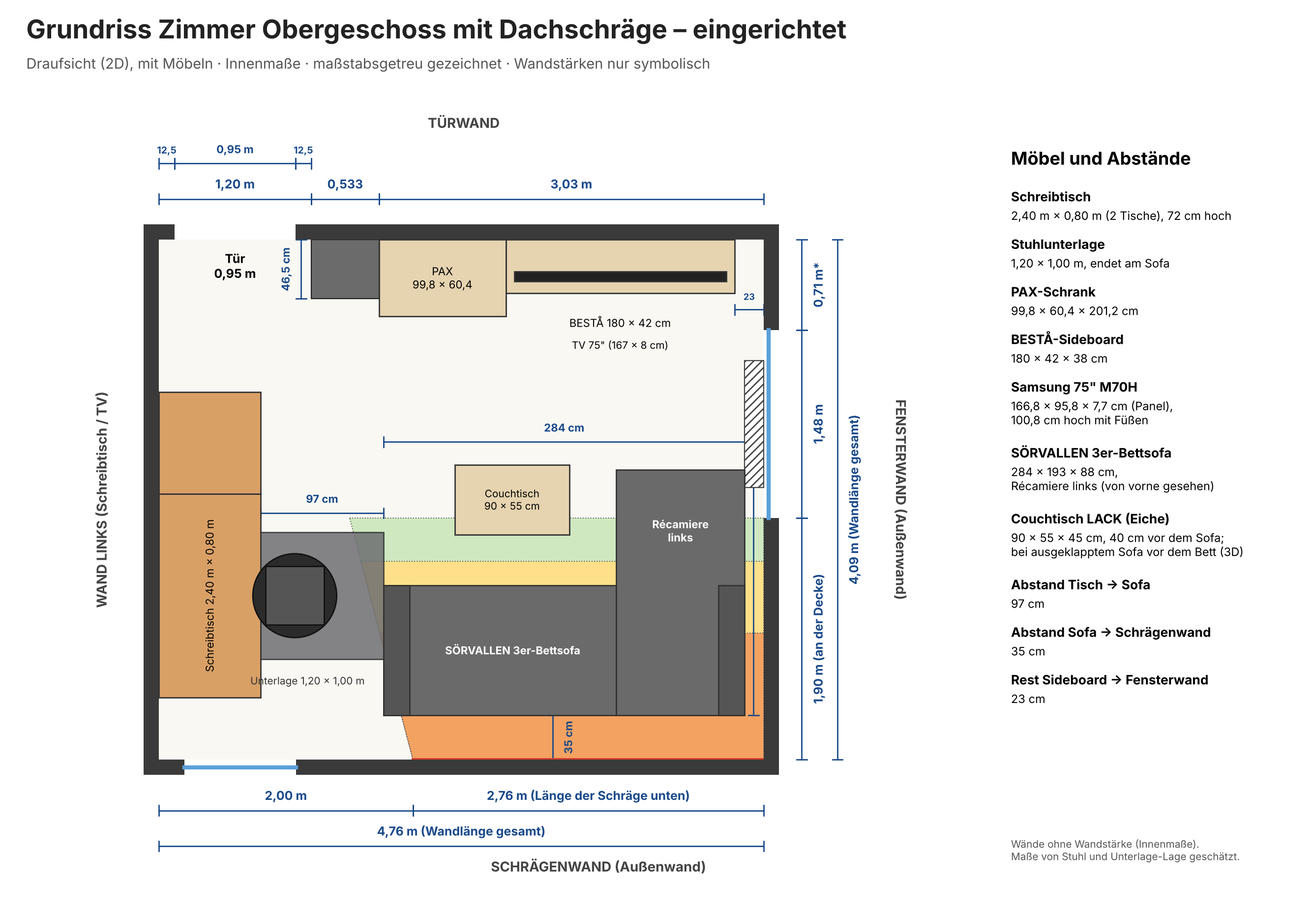
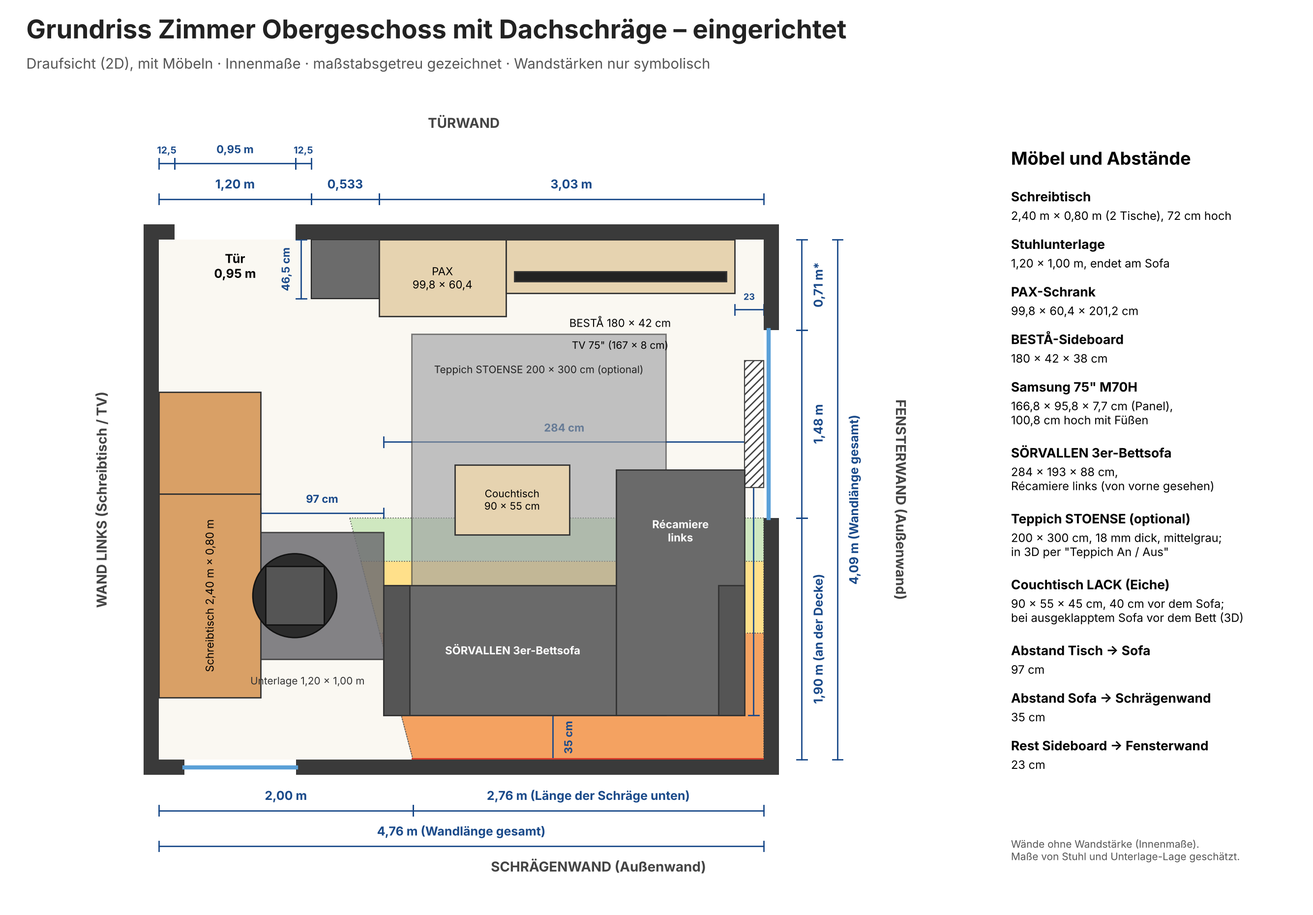
Teppich STOENSE 200x300 (mittelgrau) mit Knopf Teppich An/Aus; Grundriss und Einkaufsliste ergänzt
Claude-Session: https://claude.ai/code/session_01Hf3Bkowp5NFKLbRns8Nosg

Changed region(s): [[0.3109, 0.343, 0.5285, 0.6548], [0.7772, 0.5613, 0.9326, 0.7796], [0.7772, 0.8108, 0.9326, 0.8419]]

diff --git a/eingerichtet_mobil.html b/eingerichtet_mobil.html
@@ -59,12 +59,12 @@ a.home:hover,a.home:focus-visible{border-color:var(--accent);outline:none}
 <button id="v3">Schräge im Profil</button>
 <button id="v4">Von der Tür</button>
 <button id="tz">Kopfhöhen-Zonen</button>
-<button id="bed">Sofa ausgeklappt</button>
+<button id="bed">Sofa ausgeklappt</button><button id="rug">Teppich An / Aus</button>
 </div>
 <div class="bar" id="cats"><span class="lab">Maße zeigen für:</span></div>
 <div id="stage"><canvas id="c"></canvas>
 <div id="legend"><div><i style="background:#f4a261"></i>unter 1,50 m</div><div><i style="background:#ffe08a"></i>1,50 – 2,00 m</div><div><i style="background:#cfe8c0"></i>2,00 – 2,30 m</div></div></div>
-<footer><details><summary>Hinweise</summary>* geschätzt: Raumhöhe 2,30 m, Aufteilung des Schreibtischs (1,60 m + 0,80 m), Form der Tischbeine, Sideboard steht auf dem Boden (nicht aufgehängt), Breite des Fernseher-Rückgehäuses (Fernseher 75" steht auf seinen Standfüßen (5 cm), Gesamthöhe 138,8 cm, Lage des Panels auf den Füßen), Maße von Stuhl und Position der Unterlage, Aufbau des Sofas (Récamiere-Breite ≈ 1,02 m, Polster vereinfacht; bei ausgeklapptem Sofa Lage und Höhe der Schlaffläche), Couchtisch (Plattendicke 5 cm, Beinquerschnitt 5 cm, Höhe der Ablage; Standort vor dem Sofa bzw. vor dem ausgeklappten Sofa), Fensterhöhen, Verlauf der Diagonale an der Schräge. Wände ohne Wandstärke (Innenmaße). Von außen sind Wände und Decke durchsichtig (Schnittmodell).</details></footer>
+<footer><details><summary>Hinweise</summary>* geschätzt: Raumhöhe 2,30 m, Aufteilung des Schreibtischs (1,60 m + 0,80 m), Form der Tischbeine, Sideboard steht auf dem Boden (nicht aufgehängt), Breite des Fernseher-Rückgehäuses (Fernseher 75" steht auf seinen Standfüßen (5 cm), Gesamthöhe 138,8 cm, Lage des Panels auf den Füßen), Maße von Stuhl und Position der Unterlage, Aufbau des Sofas (Récamiere-Breite ≈ 1,02 m, Polster vereinfacht; bei ausgeklapptem Sofa Lage und Höhe der Schlaffläche), Teppich (Lage und Größe 200 × 300 cm, Position im Raum), Couchtisch (Plattendicke 5 cm, Beinquerschnitt 5 cm, Höhe der Ablage; Standort vor dem Sofa bzw. vor dem ausgeklappten Sofa), Fensterhöhen, Verlauf der Diagonale an der Schräge. Wände ohne Wandstärke (Innenmaße). Von außen sind Wände und Decke durchsichtig (Schnittmodell).</details></footer>
 <script src="three.min.js"></script><script>window.THREE||document.write('<script src="https://cdnjs.cloudflare.com/ajax/libs/three.js/r128/three.min.js"><\/script>')</script>
 <script>
 (function(){
@@ -337,6 +337,12 @@ cat='ctb';lackTable(CTB);
 var ctB=room.children.slice(ctS).filter(function(o){return o.type!=='Group';});
 ctB.forEach(function(o){o.visible=false;});
 ctDims('ctb',function(hx,vy,vz){hx(CTB[1]-0.10,CTB[0],CTB[2]);vy(2.65,CTB[1],CTB[3]);vy(2.65,CTB[3],BYF);vy(3.85,SBD,CTB[1]);vz(CTB[2]+0.06,(CTB[1]+CTB[3])/2,0,0.45);});
+// Teppich IKEA STOENSE Kurzflor, mittelgrau, 200 x 300 cm, Gesamtdicke 18 mm (Maße laut IKEA). Lage: hinten am Sofa-Kopfteil (35 cm vor der Schrägenwand), unter Sofa und Couchtisch. Ein/Aus per Knopf.
+var RG=[1.99,0.74,3.99,3.74],rugOn=true;
+var rugS=room.children.length;
+cat='teppich';box(RG[0],RG[1],0,RG[2],RG[3],0.018,0x8e9093);
+var rugObjs=room.children.slice(rugS).filter(function(o){return o.type!=='Group';});
+ctDims('teppich',function(hx,vy){hx(RG[1]-0.10,RG[0],RG[2]);vy(1.70,RG[1],RG[3]);vy(3.00,SBD,RG[1]);});
 cat='stuhl';
 // Stuhlunterlage 100 x 120 cm + Bürostuhl (Maße geschätzt: Sitz 50 x 50, Gesamthöhe 98, Fußkreuz Ø 66)
 var MX0=0.57,MX1=1.77,MY0=2.30,MY1=3.30,CCX=1.07,CCY=2.80;   // mittig unter dem 1,60-m-Tischteil (y 2,00-3,60)   // Unterlage 1,20 m (Tisch -> Sofa) x 1,00 m (längs zum Tisch), endet am Sofa (1,20 m) -> ragt 23 cm unter die Tischplatte
@@ -473,7 +479,7 @@ var LC={'Schreibtisch 2,40 m':'tisch','Höhe 72 cm':'tisch','Tiefe 80 cm':'tisch
  'Schrank 99,8 × 60,4 × 201,2 cm':'schrank','201,2 cm':'schrank','99,8 cm':'schrank',
  'Sideboard 180 × 42 × 38 cm':'sideboard','38 cm':'sideboard','180 cm':'sideboard','Rest bis Fensterwand ≈ 0,23 m':'sideboard',
  'Fernseher 75" · Panel 166,8 × 95,8 × 7,7 cm':'tv','Bilddiagonale ≈ 189 cm (75 Zoll)':'tv','100,8 cm (mit Füßen)':'tv','138,8 cm gesamt':'tv',
- 'Sofa SÖRVALLEN 284 × 193 × 88 cm':'sofa','284 cm':'sofa','35 cm Abstand zur Schrägenwand':'sofa','Tiefe 102 cm':'sofa','193 cm':'sofa','Decke 93 cm: 5 cm Luft über Rücken (88 cm)':'sofa','Schlaffläche 239 × 147 cm':'bett','239 cm':'bett','147 cm':'bett','Bettkante bis Sideboard 1,39 m':'bett','Couchtisch LACK 90 × 55 × 45 cm':'ctn','Breite 90 cm':'ctn','Tiefe 55 cm':'ctn','bis Sofa 40 cm':'ctn','bis Récamiere 36 cm':'ctn','bis Sideboard 1,35 m':'ctn','Höhe 45 cm':'ctn','Couchtisch LACK 90 × 55 × 45 cm (vor dem Bett)':'ctb','Breite 90 cm (vor dem Bett)':'ctb','Tiefe 55 cm (vor dem Bett)':'ctb','bis Bettkante 20 cm':'ctb','bis Sideboard 64 cm':'ctb','Tischhöhe 45 cm':'ctb',
+ 'Sofa SÖRVALLEN 284 × 193 × 88 cm':'sofa','284 cm':'sofa','35 cm Abstand zur Schrägenwand':'sofa','Tiefe 102 cm':'sofa','193 cm':'sofa','Decke 93 cm: 5 cm Luft über Rücken (88 cm)':'sofa','Schlaffläche 239 × 147 cm':'bett','239 cm':'bett','147 cm':'bett','Bettkante bis Sideboard 1,39 m':'bett','Teppich STOENSE 200 × 300 cm':'teppich','Teppich 200 cm':'teppich','Teppich 300 cm':'teppich','Teppich bis Sideboard 32 cm':'teppich','Couchtisch LACK 90 × 55 × 45 cm':'ctn','Breite 90 cm':'ctn','Tiefe 55 cm':'ctn','bis Sofa 40 cm':'ctn','bis Récamiere 36 cm':'ctn','bis Sideboard 1,35 m':'ctn','Höhe 45 cm':'ctn','Couchtisch LACK 90 × 55 × 45 cm (vor dem Bett)':'ctb','Breite 90 cm (vor dem Bett)':'ctb','Tiefe 55 cm (vor dem Bett)':'ctb','bis Bettkante 20 cm':'ctb','bis Sideboard 64 cm':'ctb','Tischhöhe 45 cm':'ctb',
  'Unterlage 120 cm':'stuhl','23 cm unter Tischplatte':'stuhl','Unterlage 100 cm':'stuhl','Unterlage endet am Sofa':'stuhl','Bürostuhl (geschätzt)':'stuhl',
  'Tisch bis Sofa 97 cm':'abstand','Stuhl–Sofa 42 cm':'abstand'};
 var labels=[
@@ -490,6 +496,7 @@ var labels=[
  ['Decke 93 cm: 5 cm Luft über Rücken (88 cm)',SX0+SWD/2,D-SGAP,0.95],
  ['Schlaffläche 239 × 147 cm',3.2,(BYF+BYR)/2,0.9],['239 cm',(BXA+BXB)/2,BYF-0.15,0.02],['147 cm',SX0-0.12,(BYF+BYR)/2,0.02],['Bettkante bis Sideboard 1,39 m',4.25,(SBD+BYF)/2,0.02],
  ['Couchtisch LACK 90 × 55 × 45 cm',(CTN[0]+CTN[2])/2,(CTN[1]+CTN[3])/2,0.62],['Breite 90 cm',(CTN[0]+CTN[2])/2,CTN[1]-0.10,0.02],['Tiefe 55 cm',2.23,(CTN[1]+CTN[3])/2,0.02],['bis Sofa 40 cm',2.23,(CTN[3]+2.72)/2,0.02],['bis Récamiere 36 cm',(CTN[2]+3.59)/2,2.05,0.02],['bis Sideboard 1,35 m',2.90,(SBD+CTN[1])/2,0.02],['Höhe 45 cm',CTN[2]+0.06,2.045,0.22],['Couchtisch LACK 90 × 55 × 45 cm (vor dem Bett)',(CTB[0]+CTB[2])/2,(CTB[1]+CTB[3])/2,0.62],['Breite 90 cm (vor dem Bett)',(CTB[0]+CTB[2])/2,CTB[1]-0.10,0.02],['Tiefe 55 cm (vor dem Bett)',2.65,(CTB[1]+CTB[3])/2,0.02],['bis Bettkante 20 cm',2.65,(CTB[3]+BYF)/2,0.02],['bis Sideboard 64 cm',3.85,(SBD+CTB[1])/2,0.02],['Tischhöhe 45 cm',CTB[2]+0.06,(CTB[1]+CTB[3])/2,0.22],
+ ['Teppich STOENSE 200 × 300 cm',(RG[0]+RG[2])/2,0.95,0.05],['Teppich 200 cm',(RG[0]+RG[2])/2,RG[1]-0.10,0.02],['Teppich 300 cm',1.70,(RG[1]+RG[3])/2,0.02],['Teppich bis Sideboard 32 cm',3.00,(SBD+RG[1])/2,0.02],
  ['Tisch bis Sofa 97 cm',(0.80+SX0)/2,2.10,0.03],['Unterlage 120 cm',(MX0+MX1)/2,MY0-0.04,0.03],['23 cm unter Tischplatte',MX0+0.07,MY0-0.12,0.03],['Unterlage 100 cm',MX1,(MY0+MY1)/2,0.03],
  ['Stuhl–Sofa 42 cm',(CCX+0.275+SX0)/2,2.95,0.03],['Unterlage endet am Sofa',MX1,MY0-0.12,0.03],['Bürostuhl (geschätzt)',CCX,CCY,1.12],['99,8 cm',PX0+PW/2,0.75,0.02],['180 cm',SB0+SBW/2,0.75,0.02],['Rest bis Fensterwand ≈ 0,23 m',SB0+SBW+0.115,0.75,0.02]
 ].map(function(l){var d=document.createElement('div');d.className='lbl';d.textContent=l[0];stage.appendChild(d);return {el:d,p:P(l[1],l[2],l[3]),cat:LC[l[0]]||'raum'};});
@@ -529,7 +536,7 @@ canvas.addEventListener('pointermove',function(e){
 canvas.addEventListener('wheel',function(e){e.preventDefault();dist=Math.max(3,Math.min(25,dist*(1+e.deltaY*0.001)));},{passive:false});
 ['v1','v2','v3','v4'].forEach(function(k){document.getElementById(k).onclick=function(){setView(k);};});
 document.getElementById('tz').onclick=function(){zones.visible=!zones.visible;this.classList.toggle('on',zones.visible);document.getElementById('legend').style.display=zones.visible?'block':'none';};
-var CATS=[['raum','Raum'],['tisch','Schreibtisch'],['schrank','Schrank'],['sideboard','Sideboard'],['tv','Fernseher'],['sofa','Sofa'],['bett','Sofa ausgeklappt'],['couchtisch','Couchtisch'],['stuhl','Stuhl & Unterlage'],['abstand','Abstände Tisch–Sofa']];
+var CATS=[['raum','Raum'],['tisch','Schreibtisch'],['schrank','Schrank'],['sideboard','Sideboard'],['tv','Fernseher'],['sofa','Sofa'],['bett','Sofa ausgeklappt'],['couchtisch','Couchtisch'],['teppich','Teppich'],['stuhl','Stuhl & Unterlage'],['abstand','Abstände Tisch–Sofa']];
 var LINK={sofa:['abstand'],stuhl:['abstand']};
 var pinned={},hoverCat=null,hoverOn=true,catsEl=document.getElementById('cats');
 function sync(){[].forEach.call(catsEl.querySelectorAll('button[data-k]'),function(b){b.classList.toggle('on',!!pinned[b.dataset.k]);});}
@@ -543,8 +550,12 @@ hBtn.Ein.classList.add('on');
 var bedBtn=document.getElementById('bed');
 function setBed(on){bedOn=on;bedObjs.forEach(function(o){o.visible=on;});backObjs.forEach(function(o){o.visible=!on;});ctN.forEach(function(o){o.visible=!on;});ctB.forEach(function(o){o.visible=on;});pinned.bett=on;pinned.couchtisch=on;sync();bedBtn.classList.toggle('on',on);}
 bedBtn.onclick=function(){setBed(!bedOn);};
+var rugBtn=document.getElementById('rug');
+function setRug(on){rugOn=on;rugObjs.forEach(function(o){o.visible=on;});rugBtn.classList.toggle('on',on);}
+rugBtn.onclick=function(){setRug(!rugOn);};setRug(true);
 
-function isVis(k){if(k==='bett'&&!bedOn)return false;var c=k;if(k==='ctn'||k==='ctb'){if((k==='ctb')!==bedOn)return false;c='couchtisch';}var hc=(hoverCat==='ctn'||hoverCat==='ctb')?'couchtisch':hoverCat;if(pinned[c])return true;if(hc){if(hc===c)return true;var L=LINK[hc];if(L&&L.indexOf(c)>=0)return true;}return false;}
+
+function isVis(k){if(k==='bett'&&!bedOn)return false;if(k==='teppich'&&!rugOn)return false;var c=k;if(k==='ctn'||k==='ctb'){if((k==='ctb')!==bedOn)return false;c='couchtisch';}var hc=(hoverCat==='ctn'||hoverCat==='ctb')?'couchtisch':hoverCat;if(pinned[c])return true;if(hc){if(hc===c)return true;var L=LINK[hc];if(L&&L.indexOf(c)>=0)return true;}return false;}
 var ray=new THREE.Raycaster(),mv=new THREE.Vector2(),downXY=null;
 function pick(e){var r=canvas.getBoundingClientRect();mv.set(((e.clientX-r.left)/r.width)*2-1,-((e.clientY-r.top)/r.height)*2+1);ray.setFromCamera(mv,cam);
   var hits=ray.intersectObjects(room.children,true);
@@ -558,7 +569,7 @@ canvas.addEventListener('pointerup',function(e){
   downXY=null;if(e.pointerType==='touch')hoverCat=null;});
 matchMedia('(prefers-color-scheme: dark)').addEventListener('change',function(){edgeMats.forEach(function(m){m.color.setHex(edgeColor());});});
 function loop(){
-  Object.keys(dimG).forEach(function(k){dimG[k].visible=isVis(k);});
+  Object.keys(dimG).forEach(function(k){dimG[k].visible=isVis(k);dimG[k].position.y=rugOn?0.02:0;});
   place();renderer.render(scene,cam);
   var w=stage.clientWidth,h=stage.clientHeight;
   labels.forEach(function(l){

diff --git a/interaktiv_mobil.html b/interaktiv_mobil.html
@@ -59,12 +59,12 @@ a.home:hover,a.home:focus-visible{border-color:var(--accent);outline:none}
 <button id="v3">Schräge im Profil</button>
 <button id="v4">Von der Tür</button>
 <button id="tz">Kopfhöhen-Zonen</button>
-<button id="bed">Sofa ausgeklappt</button>
+<button id="bed">Sofa ausgeklappt</button><button id="rug">Teppich An / Aus</button>
 </div>
 <div class="bar" id="cats"><span class="lab">Maße zeigen für:</span></div>
 <div id="stage"><canvas id="c"></canvas>
 <div id="legend"><div><i style="background:#f4a261"></i>unter 1,50 m</div><div><i style="background:#ffe08a"></i>1,50 – 2,00 m</div><div><i style="background:#cfe8c0"></i>2,00 – 2,30 m</div></div></div>
-<footer><details><summary>Hinweise</summary>* geschätzt: Raumhöhe 2,30 m, Aufteilung des Schreibtischs (1,60 m + 0,80 m), Form der Tischbeine, Sideboard steht auf dem Boden (nicht aufgehängt), Breite des Fernseher-Rückgehäuses (Fernseher 75" steht auf seinen Standfüßen (5 cm), Gesamthöhe 138,8 cm, Lage des Panels auf den Füßen), Maße von Stuhl und Position der Unterlage, Aufbau des Sofas (Récamiere-Breite ≈ 1,02 m, Polster vereinfacht; bei ausgeklapptem Sofa Lage und Höhe der Schlaffläche), Couchtisch (Plattendicke 5 cm, Beinquerschnitt 5 cm, Höhe der Ablage; Standort vor dem Sofa bzw. vor dem ausgeklappten Sofa), Fensterhöhen, Verlauf der Diagonale an der Schräge. Wände ohne Wandstärke (Innenmaße). Von außen sind Wände und Decke durchsichtig (Schnittmodell).</details></footer>
+<footer><details><summary>Hinweise</summary>* geschätzt: Raumhöhe 2,30 m, Aufteilung des Schreibtischs (1,60 m + 0,80 m), Form der Tischbeine, Sideboard steht auf dem Boden (nicht aufgehängt), Breite des Fernseher-Rückgehäuses (Fernseher 75" steht auf seinen Standfüßen (5 cm), Gesamthöhe 138,8 cm, Lage des Panels auf den Füßen), Maße von Stuhl und Position der Unterlage, Aufbau des Sofas (Récamiere-Breite ≈ 1,02 m, Polster vereinfacht; bei ausgeklapptem Sofa Lage und Höhe der Schlaffläche), Teppich (Lage und Größe 200 × 300 cm, Position im Raum), Couchtisch (Plattendicke 5 cm, Beinquerschnitt 5 cm, Höhe der Ablage; Standort vor dem Sofa bzw. vor dem ausgeklappten Sofa), Fensterhöhen, Verlauf der Diagonale an der Schräge. Wände ohne Wandstärke (Innenmaße). Von außen sind Wände und Decke durchsichtig (Schnittmodell).</details></footer>
 <script src="three.min.js"></script><script>window.THREE||document.write('<script src="https://cdnjs.cloudflare.com/ajax/libs/three.js/r128/three.min.js"><\/script>')</script>
 <script>
 (function(){
@@ -337,6 +337,12 @@ cat='ctb';lackTable(CTB);
 var ctB=room.children.slice(ctS).filter(function(o){return o.type!=='Group';});
 ctB.forEach(function(o){o.visible=false;});
 ctDims('ctb',function(hx,vy,vz){hx(CTB[1]-0.10,CTB[0],CTB[2]);vy(2.65,CTB[1],CTB[3]);vy(2.65,CTB[3],BYF);vy(3.85,SBD,CTB[1]);vz(CTB[2]+0.06,(CTB[1]+CTB[3])/2,0,0.45);});
+// Teppich IKEA STOENSE Kurzflor, mittelgrau, 200 x 300 cm, Gesamtdicke 18 mm (Maße laut IKEA). Lage: hinten am Sofa-Kopfteil (35 cm vor der Schrägenwand), unter Sofa und Couchtisch. Ein/Aus per Knopf.
+var RG=[1.99,0.74,3.99,3.74],rugOn=true;
+var rugS=room.children.length;
+cat='teppich';box(RG[0],RG[1],0,RG[2],RG[3],0.018,0x8e9093);
+var rugObjs=room.children.slice(rugS).filter(function(o){return o.type!=='Group';});
+ctDims('teppich',function(hx,vy){hx(RG[1]-0.10,RG[0],RG[2]);vy(1.70,RG[1],RG[3]);vy(3.00,SBD,RG[1]);});
 cat='stuhl';
 // Stuhlunterlage 100 x 120 cm + Bürostuhl (Maße geschätzt: Sitz 50 x 50, Gesamthöhe 98, Fußkreuz Ø 66)
 var MX0=0.57,MX1=1.77,MY0=2.30,MY1=3.30,CCX=1.07,CCY=2.80;   // mittig unter dem 1,60-m-Tischteil (y 2,00-3,60)   // Unterlage 1,20 m (Tisch -> Sofa) x 1,00 m (längs zum Tisch), endet am Sofa (1,20 m) -> ragt 23 cm unter die Tischplatte
@@ -473,7 +479,7 @@ var LC={'Schreibtisch 2,40 m':'tisch','Höhe 72 cm':'tisch','Tiefe 80 cm':'tisch
  'Schrank 99,8 × 60,4 × 201,2 cm':'schrank','201,2 cm':'schrank','99,8 cm':'schrank',
  'Sideboard 180 × 42 × 38 cm':'sideboard','38 cm':'sideboard','180 cm':'sideboard','Rest bis Fensterwand ≈ 0,23 m':'sideboard',
  'Fernseher 75" · Panel 166,8 × 95,8 × 7,7 cm':'tv','Bilddiagonale ≈ 189 cm (75 Zoll)':'tv','100,8 cm (mit Füßen)':'tv','138,8 cm gesamt':'tv',
- 'Sofa SÖRVALLEN 284 × 193 × 88 cm':'sofa','284 cm':'sofa','35 cm Abstand zur Schrägenwand':'sofa','Tiefe 102 cm':'sofa','193 cm':'sofa','Decke 93 cm: 5 cm Luft über Rücken (88 cm)':'sofa','Schlaffläche 239 × 147 cm':'bett','239 cm':'bett','147 cm':'bett','Bettkante bis Sideboard 1,39 m':'bett','Couchtisch LACK 90 × 55 × 45 cm':'ctn','Breite 90 cm':'ctn','Tiefe 55 cm':'ctn','bis Sofa 40 cm':'ctn','bis Récamiere 36 cm':'ctn','bis Sideboard 1,35 m':'ctn','Höhe 45 cm':'ctn','Couchtisch LACK 90 × 55 × 45 cm (vor dem Bett)':'ctb','Breite 90 cm (vor dem Bett)':'ctb','Tiefe 55 cm (vor dem Bett)':'ctb','bis Bettkante 20 cm':'ctb','bis Sideboard 64 cm':'ctb','Tischhöhe 45 cm':'ctb',
+ 'Sofa SÖRVALLEN 284 × 193 × 88 cm':'sofa','284 cm':'sofa','35 cm Abstand zur Schrägenwand':'sofa','Tiefe 102 cm':'sofa','193 cm':'sofa','Decke 93 cm: 5 cm Luft über Rücken (88 cm)':'sofa','Schlaffläche 239 × 147 cm':'bett','239 cm':'bett','147 cm':'bett','Bettkante bis Sideboard 1,39 m':'bett','Teppich STOENSE 200 × 300 cm':'teppich','Teppich 200 cm':'teppich','Teppich 300 cm':'teppich','Teppich bis Sideboard 32 cm':'teppich','Couchtisch LACK 90 × 55 × 45 cm':'ctn','Breite 90 cm':'ctn','Tiefe 55 cm':'ctn','bis Sofa 40 cm':'ctn','bis Récamiere 36 cm':'ctn','bis Sideboard 1,35 m':'ctn','Höhe 45 cm':'ctn','Couchtisch LACK 90 × 55 × 45 cm (vor dem Bett)':'ctb','Breite 90 cm (vor dem Bett)':'ctb','Tiefe 55 cm (vor dem Bett)':'ctb','bis Bettkante 20 cm':'ctb','bis Sideboard 64 cm':'ctb','Tischhöhe 45 cm':'ctb',
  'Unterlage 120 cm':'stuhl','23 cm unter Tischplatte':'stuhl','Unterlage 100 cm':'stuhl','Unterlage endet am Sofa':'stuhl','Bürostuhl (geschätzt)':'stuhl',
  'Tisch bis Sofa 97 cm':'abstand','Stuhl–Sofa 42 cm':'abstand'};
 var labels=[
@@ -490,6 +496,7 @@ var labels=[
  ['Decke 93 cm: 5 cm Luft über Rücken (88 cm)',SX0+SWD/2,D-SGAP,0.95],
  ['Schlaffläche 239 × 147 cm',3.2,(BYF+BYR)/2,0.9],['239 cm',(BXA+BXB)/2,BYF-0.15,0.02],['147 cm',SX0-0.12,(BYF+BYR)/2,0.02],['Bettkante bis Sideboard 1,39 m',4.25,(SBD+BYF)/2,0.02],
  ['Couchtisch LACK 90 × 55 × 45 cm',(CTN[0]+CTN[2])/2,(CTN[1]+CTN[3])/2,0.62],['Breite 90 cm',(CTN[0]+CTN[2])/2,CTN[1]-0.10,0.02],['Tiefe 55 cm',2.23,(CTN[1]+CTN[3])/2,0.02],['bis Sofa 40 cm',2.23,(CTN[3]+2.72)/2,0.02],['bis Récamiere 36 cm',(CTN[2]+3.59)/2,2.05,0.02],['bis Sideboard 1,35 m',2.90,(SBD+CTN[1])/2,0.02],['Höhe 45 cm',CTN[2]+0.06,2.045,0.22],['Couchtisch LACK 90 × 55 × 45 cm (vor dem Bett)',(CTB[0]+CTB[2])/2,(CTB[1]+CTB[3])/2,0.62],['Breite 90 cm (vor dem Bett)',(CTB[0]+CTB[2])/2,CTB[1]-0.10,0.02],['Tiefe 55 cm (vor dem Bett)',2.65,(CTB[1]+CTB[3])/2,0.02],['bis Bettkante 20 cm',2.65,(CTB[3]+BYF)/2,0.02],['bis Sideboard 64 cm',3.85,(SBD+CTB[1])/2,0.02],['Tischhöhe 45 cm',CTB[2]+0.06,(CTB[1]+CTB[3])/2,0.22],
+ ['Teppich STOENSE 200 × 300 cm',(RG[0]+RG[2])/2,0.95,0.05],['Teppich 200 cm',(RG[0]+RG[2])/2,RG[1]-0.10,0.02],['Teppich 300 cm',1.70,(RG[1]+RG[3])/2,0.02],['Teppich bis Sideboard 32 cm',3.00,(SBD+RG[1])/2,0.02],
  ['Tisch bis Sofa 97 cm',(0.80+SX0)/2,2.10,0.03],['Unterlage 120 cm',(MX0+MX1)/2,MY0-0.04,0.03],['23 cm unter Tischplatte',MX0+0.07,MY0-0.12,0.03],['Unterlage 100 cm',MX1,(MY0+MY1)/2,0.03],
  ['Stuhl–Sofa 42 cm',(CCX+0.275+SX0)/2,2.95,0.03],['Unterlage endet am Sofa',MX1,MY0-0.12,0.03],['Bürostuhl (geschätzt)',CCX,CCY,1.12],['99,8 cm',PX0+PW/2,0.75,0.02],['180 cm',SB0+SBW/2,0.75,0.02],['Rest bis Fensterwand ≈ 0,23 m',SB0+SBW+0.115,0.75,0.02]
 ].map(function(l){var d=document.createElement('div');d.className='lbl';d.textContent=l[0];stage.appendChild(d);return {el:d,p:P(l[1],l[2],l[3]),cat:LC[l[0]]||'raum'};});
@@ -529,7 +536,7 @@ canvas.addEventListener('pointermove',function(e){
 canvas.addEventListener('wheel',function(e){e.preventDefault();dist=Math.max(3,Math.min(25,dist*(1+e.deltaY*0.001)));},{passive:false});
 ['v1','v2','v3','v4'].forEach(function(k){document.getElementById(k).onclick=function(){setView(k);};});
 document.getElementById('tz').onclick=function(){zones.visible=!zones.visible;this.classList.toggle('on',zones.visible);document.getElementById('legend').style.display=zones.visible?'block':'none';};
-var CATS=[['raum','Raum'],['tisch','Schreibtisch'],['schrank','Schrank'],['sideboard','Sideboard'],['tv','Fernseher'],['sofa','Sofa'],['bett','Sofa ausgeklappt'],['couchtisch','Couchtisch'],['stuhl','Stuhl & Unterlage'],['abstand','Abstände Tisch–Sofa']];
+var CATS=[['raum','Raum'],['tisch','Schreibtisch'],['schrank','Schrank'],['sideboard','Sideboard'],['tv','Fernseher'],['sofa','Sofa'],['bett','Sofa ausgeklappt'],['couchtisch','Couchtisch'],['teppich','Teppich'],['stuhl','Stuhl & Unterlage'],['abstand','Abstände Tisch–Sofa']];
 var LINK={sofa:['abstand'],stuhl:['abstand']};
 var pinned={},hoverCat=null,hoverOn=true,catsEl=document.getElementById('cats');
 function sync(){[].forEach.call(catsEl.querySelectorAll('button[data-k]'),function(b){b.classList.toggle('on',!!pinned[b.dataset.k]);});}
@@ -543,8 +550,12 @@ hBtn.Ein.classList.add('on');
 var bedBtn=document.getElementById('bed');
 function setBed(on){bedOn=on;bedObjs.forEach(function(o){o.visible=on;});backObjs.forEach(function(o){o.visible=!on;});ctN.forEach(function(o){o.visible=!on;});ctB.forEach(function(o){o.visible=on;});pinned.bett=on;pinned.couchtisch=on;sync();bedBtn.classList.toggle('on',on);}
 bedBtn.onclick=function(){setBed(!bedOn);};
+var rugBtn=document.getElementById('rug');
+function setRug(on){rugOn=on;rugObjs.forEach(function(o){o.visible=on;});rugBtn.classList.toggle('on',on);}
+rugBtn.onclick=function(){setRug(!rugOn);};setRug(true);
 
-function isVis(k){if(k==='bett'&&!bedOn)return false;var c=k;if(k==='ctn'||k==='ctb'){if((k==='ctb')!==bedOn)return false;c='couchtisch';}var hc=(hoverCat==='ctn'||hoverCat==='ctb')?'couchtisch':hoverCat;if(pinned[c])return true;if(hc){if(hc===c)return true;var L=LINK[hc];if(L&&L.indexOf(c)>=0)return true;}return false;}
+
+function isVis(k){if(k==='bett'&&!bedOn)return false;if(k==='teppich'&&!rugOn)return false;var c=k;if(k==='ctn'||k==='ctb'){if((k==='ctb')!==bedOn)return false;c='couchtisch';}var hc=(hoverCat==='ctn'||hoverCat==='ctb')?'couchtisch':hoverCat;if(pinned[c])return true;if(hc){if(hc===c)return true;var L=LINK[hc];if(L&&L.indexOf(c)>=0)return true;}return false;}
 var ray=new THREE.Raycaster(),mv=new THREE.Vector2(),downXY=null;
 function pick(e){var r=canvas.getBoundingClientRect();mv.set(((e.clientX-r.left)/r.width)*2-1,-((e.clientY-r.top)/r.height)*2+1);ray.setFromCamera(mv,cam);
   var hits=ray.intersectObjects(room.children,true);
@@ -558,7 +569,7 @@ canvas.addEventListener('pointerup',function(e){
   downXY=null;if(e.pointerType==='touch')hoverCat=null;});
 matchMedia('(prefers-color-scheme: dark)').addEventListener('change',function(){edgeMats.forEach(function(m){m.color.setHex(edgeColor());});});
 function loop(){
-  Object.keys(dimG).forEach(function(k){dimG[k].visible=isVis(k);});
+  Object.keys(dimG).forEach(function(k){dimG[k].visible=isVis(k);dimG[k].position.y=rugOn?0.02:0;});
   place();renderer.render(scene,cam);
   var w=stage.clientWidth,h=stage.clientHeight;
   labels.forEach(function(l){

diff --git a/eingerichtet.html b/eingerichtet.html
@@ -42,12 +42,12 @@ a.home:hover,a.home:focus-visible{border-color:var(--accent);outline:none}
 <button id="v3">Schräge im Profil</button>
 <button id="v4">Von der Tür</button>
 <button id="tz">Kopfhöhen-Zonen</button>
-<button id="bed">Sofa ausgeklappt</button>
+<button id="bed">Sofa ausgeklappt</button><button id="rug">Teppich An / Aus</button>
 </div>
 <div class="bar" id="cats"><span class="lab">Maße zeigen für:</span></div>
 <div id="stage"><canvas id="c"></canvas>
 <div id="legend"><div><i style="background:#f4a261"></i>unter 1,50 m</div><div><i style="background:#ffe08a"></i>1,50 – 2,00 m</div><div><i style="background:#cfe8c0"></i>2,00 – 2,30 m</div></div></div>
-<footer>* geschätzt: Raumhöhe 2,30 m, Aufteilung des Schreibtischs (1,60 m + 0,80 m), Form der Tischbeine, Sideboard steht auf dem Boden (nicht aufgehängt), Breite des Fernseher-Rückgehäuses (Fernseher 75" steht auf seinen Standfüßen (5 cm), Gesamthöhe 138,8 cm, Lage des Panels auf den Füßen), Maße von Stuhl und Position der Unterlage, Aufbau des Sofas (Récamiere-Breite ≈ 1,02 m, Polster vereinfacht; bei ausgeklapptem Sofa Lage und Höhe der Schlaffläche), Couchtisch (Plattendicke 5 cm, Beinquerschnitt 5 cm, Höhe der Ablage; Standort vor dem Sofa bzw. vor dem ausgeklappten Sofa), Fensterhöhen, Verlauf der Diagonale an der Schräge. Wände ohne Wandstärke (Innenmaße). Von außen sind Wände und Decke durchsichtig (Schnittmodell).</footer>
+<footer>* geschätzt: Raumhöhe 2,30 m, Aufteilung des Schreibtischs (1,60 m + 0,80 m), Form der Tischbeine, Sideboard steht auf dem Boden (nicht aufgehängt), Breite des Fernseher-Rückgehäuses (Fernseher 75" steht auf seinen Standfüßen (5 cm), Gesamthöhe 138,8 cm, Lage des Panels auf den Füßen), Maße von Stuhl und Position der Unterlage, Aufbau des Sofas (Récamiere-Breite ≈ 1,02 m, Polster vereinfacht; bei ausgeklapptem Sofa Lage und Höhe der Schlaffläche), Teppich (Lage und Größe 200 × 300 cm, Position im Raum), Couchtisch (Plattendicke 5 cm, Beinquerschnitt 5 cm, Höhe der Ablage; Standort vor dem Sofa bzw. vor dem ausgeklappten Sofa), Fensterhöhen, Verlauf der Diagonale an der Schräge. Wände ohne Wandstärke (Innenmaße). Von außen sind Wände und Decke durchsichtig (Schnittmodell).</footer>
 <script src="three.min.js"></script><script>window.THREE||document.write('<script src="https://cdnjs.cloudflare.com/ajax/libs/three.js/r128/three.min.js"><\/script>')</script>
 <script>
 (function(){
@@ -320,6 +320,12 @@ cat='ctb';lackTable(CTB);
 var ctB=room.children.slice(ctS).filter(function(o){return o.type!=='Group';});
 ctB.forEach(function(o){o.visible=false;});
 ctDims('ctb',function(hx,vy,vz){hx(CTB[1]-0.10,CTB[0],CTB[2]);vy(2.65,CTB[1],CTB[3]);vy(2.65,CTB[3],BYF);vy(3.85,SBD,CTB[1]);vz(CTB[2]+0.06,(CTB[1]+CTB[3])/2,0,0.45);});
+// Teppich IKEA STOENSE Kurzflor, mittelgrau, 200 x 300 cm, Gesamtdicke 18 mm (Maße laut IKEA). Lage: hinten am Sofa-Kopfteil (35 cm vor der Schrägenwand), unter Sofa und Couchtisch. Ein/Aus per Knopf.
+var RG=[1.99,0.74,3.99,3.74],rugOn=true;
+var rugS=room.children.length;
+cat='teppich';box(RG[0],RG[1],0,RG[2],RG[3],0.018,0x8e9093);
+var rugObjs=room.children.slice(rugS).filter(function(o){return o.type!=='Group';});
+ctDims('teppich',function(hx,vy){hx(RG[1]-0.10,RG[0],RG[2]);vy(1.70,RG[1],RG[3]);vy(3.00,SBD,RG[1]);});
 cat='stuhl';
 // Stuhlunterlage 100 x 120 cm + Bürostuhl (Maße geschätzt: Sitz 50 x 50, Gesamthöhe 98, Fußkreuz Ø 66)
 var MX0=0.57,MX1=1.77,MY0=2.30,MY1=3.30,CCX=1.07,CCY=2.80;   // mittig unter dem 1,60-m-Tischteil (y 2,00-3,60)   // Unterlage 1,20 m (Tisch -> Sofa) x 1,00 m (längs zum Tisch), endet am Sofa (1,20 m) -> ragt 23 cm unter die Tischplatte
@@ -456,7 +462,7 @@ var LC={'Schreibtisch 2,40 m':'tisch','Höhe 72 cm':'tisch','Tiefe 80 cm':'tisch
  'Schrank 99,8 × 60,4 × 201,2 cm':'schrank','201,2 cm':'schrank','99,8 cm':'schrank',
  'Sideboard 180 × 42 × 38 cm':'sideboard','38 cm':'sideboard','180 cm':'sideboard','Rest bis Fensterwand ≈ 0,23 m':'sideboard',
  'Fernseher 75" · Panel 166,8 × 95,8 × 7,7 cm':'tv','Bilddiagonale ≈ 189 cm (75 Zoll)':'tv','100,8 cm (mit Füßen)':'tv','138,8 cm gesamt':'tv',
- 'Sofa SÖRVALLEN 284 × 193 × 88 cm':'sofa','284 cm':'sofa','35 cm Abstand zur Schrägenwand':'sofa','Tiefe 102 cm':'sofa','193 cm':'sofa','Decke 93 cm: 5 cm Luft über Rücken (88 cm)':'sofa','Schlaffläche 239 × 147 cm':'bett','239 cm':'bett','147 cm':'bett','Bettkante bis Sideboard 1,39 m':'bett','Couchtisch LACK 90 × 55 × 45 cm':'ctn','Breite 90 cm':'ctn','Tiefe 55 cm':'ctn','bis Sofa 40 cm':'ctn','bis Récamiere 36 cm':'ctn','bis Sideboard 1,35 m':'ctn','Höhe 45 cm':'ctn','Couchtisch LACK 90 × 55 × 45 cm (vor dem Bett)':'ctb','Breite 90 cm (vor dem Bett)':'ctb','Tiefe 55 cm (vor dem Bett)':'ctb','bis Bettkante 20 cm':'ctb','bis Sideboard 64 cm':'ctb','Tischhöhe 45 cm':'ctb',
+ 'Sofa SÖRVALLEN 284 × 193 × 88 cm':'sofa','284 cm':'sofa','35 cm Abstand zur Schrägenwand':'sofa','Tiefe 102 cm':'sofa','193 cm':'sofa','Decke 93 cm: 5 cm Luft über Rücken (88 cm)':'sofa','Schlaffläche 239 × 147 cm':'bett','239 cm':'bett','147 cm':'bett','Bettkante bis Sideboard 1,39 m':'bett','Teppich STOENSE 200 × 300 cm':'teppich','Teppich 200 cm':'teppich','Teppich 300 cm':'teppich','Teppich bis Sideboard 32 cm':'teppich','Couchtisch LACK 90 × 55 × 45 cm':'ctn','Breite 90 cm':'ctn','Tiefe 55 cm':'ctn','bis Sofa 40 cm':'ctn','bis Récamiere 36 cm':'ctn','bis Sideboard 1,35 m':'ctn','Höhe 45 cm':'ctn','Couchtisch LACK 90 × 55 × 45 cm (vor dem Bett)':'ctb','Breite 90 cm (vor dem Bett)':'ctb','Tiefe 55 cm (vor dem Bett)':'ctb','bis Bettkante 20 cm':'ctb','bis Sideboard 64 cm':'ctb','Tischhöhe 45 cm':'ctb',
  'Unterlage 120 cm':'stuhl','23 cm unter Tischplatte':'stuhl','Unterlage 100 cm':'stuhl','Unterlage endet am Sofa':'stuhl','Bürostuhl (geschätzt)':'stuhl',
  'Tisch bis Sofa 97 cm':'abstand','Stuhl–Sofa 42 cm':'abstand'};
 var labels=[
@@ -473,6 +479,7 @@ var labels=[
  ['Decke 93 cm: 5 cm Luft über Rücken (88 cm)',SX0+SWD/2,D-SGAP,0.95],
  ['Schlaffläche 239 × 147 cm',3.2,(BYF+BYR)/2,0.9],['239 cm',(BXA+BXB)/2,BYF-0.15,0.02],['147 cm',SX0-0.12,(BYF+BYR)/2,0.02],['Bettkante bis Sideboard 1,39 m',4.25,(SBD+BYF)/2,0.02],
  ['Couchtisch LACK 90 × 55 × 45 cm',(CTN[0]+CTN[2])/2,(CTN[1]+CTN[3])/2,0.62],['Breite 90 cm',(CTN[0]+CTN[2])/2,CTN[1]-0.10,0.02],['Tiefe 55 cm',2.23,(CTN[1]+CTN[3])/2,0.02],['bis Sofa 40 cm',2.23,(CTN[3]+2.72)/2,0.02],['bis Récamiere 36 cm',(CTN[2]+3.59)/2,2.05,0.02],['bis Sideboard 1,35 m',2.90,(SBD+CTN[1])/2,0.02],['Höhe 45 cm',CTN[2]+0.06,2.045,0.22],['Couchtisch LACK 90 × 55 × 45 cm (vor dem Bett)',(CTB[0]+CTB[2])/2,(CTB[1]+CTB[3])/2,0.62],['Breite 90 cm (vor dem Bett)',(CTB[0]+CTB[2])/2,CTB[1]-0.10,0.02],['Tiefe 55 cm (vor dem Bett)',2.65,(CTB[1]+CTB[3])/2,0.02],['bis Bettkante 20 cm',2.65,(CTB[3]+BYF)/2,0.02],['bis Sideboard 64 cm',3.85,(SBD+CTB[1])/2,0.02],['Tischhöhe 45 cm',CTB[2]+0.06,(CTB[1]+CTB[3])/2,0.22],
+ ['Teppich STOENSE 200 × 300 cm',(RG[0]+RG[2])/2,0.95,0.05],['Teppich 200 cm',(RG[0]+RG[2])/2,RG[1]-0.10,0.02],['Teppich 300 cm',1.70,(RG[1]+RG[3])/2,0.02],['Teppich bis Sideboard 32 cm',3.00,(SBD+RG[1])/2,0.02],
  ['Tisch bis Sofa 97 cm',(0.80+SX0)/2,2.10,0.03],['Unterlage 120 cm',(MX0+MX1)/2,MY0-0.04,0.03],['23 cm unter Tischplatte',MX0+0.07,MY0-0.12,0.03],['Unterlage 100 cm',MX1,(MY0+MY1)/2,0.03],
  ['Stuhl–Sofa 42 cm',(CCX+0.275+SX0)/2,2.95,0.03],['Unterlage endet am Sofa',MX1,MY0-0.12,0.03],['Bürostuhl (geschätzt)',CCX,CCY,1.12],['99,8 cm',PX0+PW/2,0.75,0.02],['180 cm',SB0+SBW/2,0.75,0.02],['Rest bis Fensterwand ≈ 0,23 m',SB0+SBW+0.115,0.75,0.02]
 ].map(function(l){var d=document.createElement('div');d.className='lbl';d.textContent=l[0];stage.appendChild(d);return {el:d,p:P(l[1],l[2],l[3]),cat:LC[l[0]]||'raum'};});
@@ -510,7 +517,7 @@ canvas.addEventListener('pointermove',function(e){
 canvas.addEventListener('wheel',function(e){e.preventDefault();dist=Math.max(3,Math.min(25,dist*(1+e.deltaY*0.001)));},{passive:false});
 ['v1','v2','v3','v4'].forEach(function(k){document.getElementById(k).onclick=function(){setView(k);};});
 document.getElementById('tz').onclick=function(){zones.visible=!zones.visible;this.classList.toggle('on',zones.visible);document.getElementById('legend').style.display=zones.visible?'block':'none';};
-var CATS=[['raum','Raum'],['tisch','Schreibtisch'],['schrank','Schrank'],['sideboard','Sideboard'],['tv','Fernseher'],['sofa','Sofa'],['bett','Sofa ausgeklappt'],['couchtisch','Couchtisch'],['stuhl','Stuhl & Unterlage'],['abstand','Abstände Tisch–Sofa']];
+var CATS=[['raum','Raum'],['tisch','Schreibtisch'],['schrank','Schrank'],['sideboard','Sideboard'],['tv','Fernseher'],['sofa','Sofa'],['bett','Sofa ausgeklappt'],['couchtisch','Couchtisch'],['teppich','Teppich'],['stuhl','Stuhl & Unterlage'],['abstand','Abstände Tisch–Sofa']];
 var LINK={sofa:['abstand'],stuhl:['abstand']};
 var pinned={},hoverCat=null,hoverOn=true,catsEl=document.getElementById('cats');
 function sync(){[].forEach.call(catsEl.querySelectorAll('button[data-k]'),function(b){b.classList.toggle('on',!!pinned[b.dataset.k]);});}
@@ -524,8 +531,12 @@ hBtn.Ein.classList.add('on');
 var bedBtn=document.getElementById('bed');
 function setBed(on){bedOn=on;bedObjs.forEach(function(o){o.visible=on;});backObjs.forEach(function(o){o.visible=!on;});ctN.forEach(function(o){o.visible=!on;});ctB.forEach(function(o){o.visible=on;});pinned.bett=on;pinned.couchtisch=on;sync();bedBtn.classList.toggle('on',on);}
 bedBtn.onclick=function(){setBed(!bedOn);};
+var rugBtn=document.getElementById('rug');
+function setRug(on){rugOn=on;rugObjs.forEach(function(o){o.visible=on;});rugBtn.classList.toggle('on',on);}
+rugBtn.onclick=function(){setRug(!rugOn);};setRug(true);
 
-function isVis(k){if(k==='bett'&&!bedOn)return false;var c=k;if(k==='ctn'||k==='ctb'){if((k==='ctb')!==bedOn)return false;c='couchtisch';}var hc=(hoverCat==='ctn'||hoverCat==='ctb')?'couchtisch':hoverCat;if(pinned[c])return true;if(hc){if(hc===c)return true;var L=LINK[hc];if(L&&L.indexOf(c)>=0)return true;}return false;}
+
+function isVis(k){if(k==='bett'&&!bedOn)return false;if(k==='teppich'&&!rugOn)return false;var c=k;if(k==='ctn'||k==='ctb'){if((k==='ctb')!==bedOn)return false;c='couchtisch';}var hc=(hoverCat==='ctn'||hoverCat==='ctb')?'couchtisch':hoverCat;if(pinned[c])return true;if(hc){if(hc===c)return true;var L=LINK[hc];if(L&&L.indexOf(c)>=0)return true;}return false;}
 var ray=new THREE.Raycaster(),mv=new THREE.Vector2(),downXY=null;
 function pick(e){var r=canvas.getBoundingClientRect();mv.set(((e.clientX-r.left)/r.width)*2-1,-((e.clientY-r.top)/r.height)*2+1);ray.setFromCamera(mv,cam);
   var hits=ray.intersectObjects(room.children,true);
@@ -539,7 +550,7 @@ canvas.addEventListener('pointerup',function(e){
   downXY=null;if(e.pointerType==='touch')hoverCat=null;});
 matchMedia('(prefers-color-scheme: dark)').addEventListener('change',function(){edgeMats.forEach(function(m){m.color.setHex(edgeColor());});});
 function loop(){
-  Object.keys(dimG).forEach(function(k){dimG[k].visible=isVis(k);});
+  Object.keys(dimG).forEach(function(k){dimG[k].visible=isVis(k);dimG[k].position.y=rugOn?0.02:0;});
   place();renderer.render(scene,cam);
   var w=stage.clientWidth,h=stage.clientHeight;
   labels.forEach(function(l){

diff --git a/interaktiv.html b/interaktiv.html
@@ -42,12 +42,12 @@ a.home:hover,a.home:focus-visible{border-color:var(--accent);outline:none}
 <button id="v3">Schräge im Profil</button>
 <button id="v4">Von der Tür</button>
 <button id="tz">Kopfhöhen-Zonen</button>
-<button id="bed">Sofa ausgeklappt</button>
+<button id="bed">Sofa ausgeklappt</button><button id="rug">Teppich An / Aus</button>
 </div>
 <div class="bar" id="cats"><span class="lab">Maße zeigen für:</span></div>
 <div id="stage"><canvas id="c"></canvas>
 <div id="legend"><div><i style="background:#f4a261"></i>unter 1,50 m</div><div><i style="background:#ffe08a"></i>1,50 – 2,00 m</div><div><i style="background:#cfe8c0"></i>2,00 – 2,30 m</div></div></div>
-<footer>* geschätzt: Raumhöhe 2,30 m, Aufteilung des Schreibtischs (1,60 m + 0,80 m), Form der Tischbeine, Sideboard steht auf dem Boden (nicht aufgehängt), Breite des Fernseher-Rückgehäuses (Fernseher 75" steht auf seinen Standfüßen (5 cm), Gesamthöhe 138,8 cm, Lage des Panels auf den Füßen), Maße von Stuhl und Position der Unterlage, Aufbau des Sofas (Récamiere-Breite ≈ 1,02 m, Polster vereinfacht; bei ausgeklapptem Sofa Lage und Höhe der Schlaffläche), Couchtisch (Plattendicke 5 cm, Beinquerschnitt 5 cm, Höhe der Ablage; Standort vor dem Sofa bzw. vor dem ausgeklappten Sofa), Fensterhöhen, Verlauf der Diagonale an der Schräge. Wände ohne Wandstärke (Innenmaße). Von außen sind Wände und Decke durchsichtig (Schnittmodell).</footer>
+<footer>* geschätzt: Raumhöhe 2,30 m, Aufteilung des Schreibtischs (1,60 m + 0,80 m), Form der Tischbeine, Sideboard steht auf dem Boden (nicht aufgehängt), Breite des Fernseher-Rückgehäuses (Fernseher 75" steht auf seinen Standfüßen (5 cm), Gesamthöhe 138,8 cm, Lage des Panels auf den Füßen), Maße von Stuhl und Position der Unterlage, Aufbau des Sofas (Récamiere-Breite ≈ 1,02 m, Polster vereinfacht; bei ausgeklapptem Sofa Lage und Höhe der Schlaffläche), Teppich (Lage und Größe 200 × 300 cm, Position im Raum), Couchtisch (Plattendicke 5 cm, Beinquerschnitt 5 cm, Höhe der Ablage; Standort vor dem Sofa bzw. vor dem ausgeklappten Sofa), Fensterhöhen, Verlauf der Diagonale an der Schräge. Wände ohne Wandstärke (Innenmaße). Von außen sind Wände und Decke durchsichtig (Schnittmodell).</footer>
 <script src="three.min.js"></script><script>window.THREE||document.write('<script src="https://cdnjs.cloudflare.com/ajax/libs/three.js/r128/three.min.js"><\/script>')</script>
 <script>
 (function(){
@@ -320,6 +320,12 @@ cat='ctb';lackTable(CTB);
 var ctB=room.children.slice(ctS).filter(function(o){return o.type!=='Group';});
 ctB.forEach(function(o){o.visible=false;});
 ctDims('ctb',function(hx,vy,vz){hx(CTB[1]-0.10,CTB[0],CTB[2]);vy(2.65,CTB[1],CTB[3]);vy(2.65,CTB[3],BYF);vy(3.85,SBD,CTB[1]);vz(CTB[2]+0.06,(CTB[1]+CTB[3])/2,0,0.45);});
+// Teppich IKEA STOENSE Kurzflor, mittelgrau, 200 x 300 cm, Gesamtdicke 18 mm (Maße laut IKEA). Lage: hinten am Sofa-Kopfteil (35 cm vor der Schrägenwand), unter Sofa und Couchtisch. Ein/Aus per Knopf.
+var RG=[1.99,0.74,3.99,3.74],rugOn=true;
+var rugS=room.children.length;
+cat='teppich';box(RG[0],RG[1],0,RG[2],RG[3],0.018,0x8e9093);
+var rugObjs=room.children.slice(rugS).filter(function(o){return o.type!=='Group';});
+ctDims('teppich',function(hx,vy){hx(RG[1]-0.10,RG[0],RG[2]);vy(1.70,RG[1],RG[3]);vy(3.00,SBD,RG[1]);});
 cat='stuhl';
 // Stuhlunterlage 100 x 120 cm + Bürostuhl (Maße geschätzt: Sitz 50 x 50, Gesamthöhe 98, Fußkreuz Ø 66)
 var MX0=0.57,MX1=1.77,MY0=2.30,MY1=3.30,CCX=1.07,CCY=2.80;   // mittig unter dem 1,60-m-Tischteil (y 2,00-3,60)   // Unterlage 1,20 m (Tisch -> Sofa) x 1,00 m (längs zum Tisch), endet am Sofa (1,20 m) -> ragt 23 cm unter die Tischplatte
@@ -456,7 +462,7 @@ var LC={'Schreibtisch 2,40 m':'tisch','Höhe 72 cm':'tisch','Tiefe 80 cm':'tisch
  'Schrank 99,8 × 60,4 × 201,2 cm':'schrank','201,2 cm':'schrank','99,8 cm':'schrank',
  'Sideboard 180 × 42 × 38 cm':'sideboard','38 cm':'sideboard','180 cm':'sideboard','Rest bis Fensterwand ≈ 0,23 m':'sideboard',
  'Fernseher 75" · Panel 166,8 × 95,8 × 7,7 cm':'tv','Bilddiagonale ≈ 189 cm (75 Zoll)':'tv','100,8 cm (mit Füßen)':'tv','138,8 cm gesamt':'tv',
- 'Sofa SÖRVALLEN 284 × 193 × 88 cm':'sofa','284 cm':'sofa','35 cm Abstand zur Schrägenwand':'sofa','Tiefe 102 cm':'sofa','193 cm':'sofa','Decke 93 cm: 5 cm Luft über Rücken (88 cm)':'sofa','Schlaffläche 239 × 147 cm':'bett','239 cm':'bett','147 cm':'bett','Bettkante bis Sideboard 1,39 m':'bett','Couchtisch LACK 90 × 55 × 45 cm':'ctn','Breite 90 cm':'ctn','Tiefe 55 cm':'ctn','bis Sofa 40 cm':'ctn','bis Récamiere 36 cm':'ctn','bis Sideboard 1,35 m':'ctn','Höhe 45 cm':'ctn','Couchtisch LACK 90 × 55 × 45 cm (vor dem Bett)':'ctb','Breite 90 cm (vor dem Bett)':'ctb','Tiefe 55 cm (vor dem Bett)':'ctb','bis Bettkante 20 cm':'ctb','bis Sideboard 64 cm':'ctb','Tischhöhe 45 cm':'ctb',
+ 'Sofa SÖRVALLEN 284 × 193 × 88 cm':'sofa','284 cm':'sofa','35 cm Abstand zur Schrägenwand':'sofa','Tiefe 102 cm':'sofa','193 cm':'sofa','Decke 93 cm: 5 cm Luft über Rücken (88 cm)':'sofa','Schlaffläche 239 × 147 cm':'bett','239 cm':'bett','147 cm':'bett','Bettkante bis Sideboard 1,39 m':'bett','Teppich STOENSE 200 × 300 cm':'teppich','Teppich 200 cm':'teppich','Teppich 300 cm':'teppich','Teppich bis Sideboard 32 cm':'teppich','Couchtisch LACK 90 × 55 × 45 cm':'ctn','Breite 90 cm':'ctn','Tiefe 55 cm':'ctn','bis Sofa 40 cm':'ctn','bis Récamiere 36 cm':'ctn','bis Sideboard 1,35 m':'ctn','Höhe 45 cm':'ctn','Couchtisch LACK 90 × 55 × 45 cm (vor dem Bett)':'ctb','Breite 90 cm (vor dem Bett)':'ctb','Tiefe 55 cm (vor dem Bett)':'ctb','bis Bettkante 20 cm':'ctb','bis Sideboard 64 cm':'ctb','Tischhöhe 45 cm':'ctb',
  'Unterlage 120 cm':'stuhl','23 cm unter Tischplatte':'stuhl','Unterlage 100 cm':'stuhl','Unterlage endet am Sofa':'stuhl','Bürostuhl (geschätzt)':'stuhl',
  'Tisch bis Sofa 97 cm':'abstand','Stuhl–Sofa 42 cm':'abstand'};
 var labels=[
@@ -473,6 +479,7 @@ var labels=[
  ['Decke 93 cm: 5 cm Luft über Rücken (88 cm)',SX0+SWD/2,D-SGAP,0.95],
  ['Schlaffläche 239 × 147 cm',3.2,(BYF+BYR)/2,0.9],['239 cm',(BXA+BXB)/2,BYF-0.15,0.02],['147 cm',SX0-0.12,(BYF+BYR)/2,0.02],['Bettkante bis Sideboard 1,39 m',4.25,(SBD+BYF)/2,0.02],
  ['Couchtisch LACK 90 × 55 × 45 cm',(CTN[0]+CTN[2])/2,(CTN[1]+CTN[3])/2,0.62],['Breite 90 cm',(CTN[0]+CTN[2])/2,CTN[1]-0.10,0.02],['Tiefe 55 cm',2.23,(CTN[1]+CTN[3])/2,0.02],['bis Sofa 40 cm',2.23,(CTN[3]+2.72)/2,0.02],['bis Récamiere 36 cm',(CTN[2]+3.59)/2,2.05,0.02],['bis Sideboard 1,35 m',2.90,(SBD+CTN[1])/2,0.02],['Höhe 45 cm',CTN[2]+0.06,2.045,0.22],['Couchtisch LACK 90 × 55 × 45 cm (vor dem Bett)',(CTB[0]+CTB[2])/2,(CTB[1]+CTB[3])/2,0.62],['Breite 90 cm (vor dem Bett)',(CTB[0]+CTB[2])/2,CTB[1]-0.10,0.02],['Tiefe 55 cm (vor dem Bett)',2.65,(CTB[1]+CTB[3])/2,0.02],['bis Bettkante 20 cm',2.65,(CTB[3]+BYF)/2,0.02],['bis Sideboard 64 cm',3.85,(SBD+CTB[1])/2,0.02],['Tischhöhe 45 cm',CTB[2]+0.06,(CTB[1]+CTB[3])/2,0.22],
+ ['Teppich STOENSE 200 × 300 cm',(RG[0]+RG[2])/2,0.95,0.05],['Teppich 200 cm',(RG[0]+RG[2])/2,RG[1]-0.10,0.02],['Teppich 300 cm',1.70,(RG[1]+RG[3])/2,0.02],['Teppich bis Sideboard 32 cm',3.00,(SBD+RG[1])/2,0.02],
  ['Tisch bis Sofa 97 cm',(0.80+SX0)/2,2.10,0.03],['Unterlage 120 cm',(MX0+MX1)/2,MY0-0.04,0.03],['23 cm unter Tischplatte',MX0+0.07,MY0-0.12,0.03],['Unterlage 100 cm',MX1,(MY0+MY1)/2,0.03],
  ['Stuhl–Sofa 42 cm',(CCX+0.275+SX0)/2,2.95,0.03],['Unterlage endet am Sofa',MX1,MY0-0.12,0.03],['Bürostuhl (geschätzt)',CCX,CCY,1.12],['99,8 cm',PX0+PW/2,0.75,0.02],['180 cm',SB0+SBW/2,0.75,0.02],['Rest bis Fensterwand ≈ 0,23 m',SB0+SBW+0.115,0.75,0.02]
 ].map(function(l){var d=document.createElement('div');d.className='lbl';d.textContent=l[0];stage.appendChild(d);return {el:d,p:P(l[1],l[2],l[3]),cat:LC[l[0]]||'raum'};});
@@ -510,7 +517,7 @@ canvas.addEventListener('pointermove',function(e){
 canvas.addEventListener('wheel',function(e){e.preventDefault();dist=Math.max(3,Math.min(25,dist*(1+e.deltaY*0.001)));},{passive:false});
 ['v1','v2','v3','v4'].forEach(function(k){document.getElementById(k).onclick=function(){setView(k);};});
 document.getElementById('tz').onclick=function(){zones.visible=!zones.visible;this.classList.toggle('on',zones.visible);document.getElementById('legend').style.display=zones.visible?'block':'none';};
-var CATS=[['raum','Raum'],['tisch','Schreibtisch'],['schrank','Schrank'],['sideboard','Sideboard'],['tv','Fernseher'],['sofa','Sofa'],['bett','Sofa ausgeklappt'],['couchtisch','Couchtisch'],['stuhl','Stuhl & Unterlage'],['abstand','Abstände Tisch–Sofa']];
+var CATS=[['raum','Raum'],['tisch','Schreibtisch'],['schrank','Schrank'],['sideboard','Sideboard'],['tv','Fernseher'],['sofa','Sofa'],['bett','Sofa ausgeklappt'],['couchtisch','Couchtisch'],['teppich','Teppich'],['stuhl','Stuhl & Unterlage'],['abstand','Abstände Tisch–Sofa']];
 var LINK={sofa:['abstand'],stuhl:['abstand']};
 var pinned={},hoverCat=null,hoverOn=true,catsEl=document.getElementById('cats');
 function sync(){[].forEach.call(catsEl.querySelectorAll('button[data-k]'),function(b){b.classList.toggle('on',!!pinned[b.dataset.k]);});}
@@ -524,8 +531,12 @@ hBtn.Ein.classList.add('on');
 var bedBtn=document.getElementById('bed');
 function setBed(on){bedOn=on;bedObjs.forEach(function(o){o.visible=on;});backObjs.forEach(function(o){o.visible=!on;});ctN.forEach(function(o){o.visible=!on;});ctB.forEach(function(o){o.visible=on;});pinned.bett=on;pinned.couchtisch=on;sync();bedBtn.classList.toggle('on',on);}
 bedBtn.onclick=function(){setBed(!bedOn);};
+var rugBtn=document.getElementById('rug');
+function setRug(on){rugOn=on;rugObjs.forEach(function(o){o.visible=on;});rugBtn.classList.toggle('on',on);}
+rugBtn.onclick=function(){setRug(!rugOn);};setRug(true);
 
-function isVis(k){if(k==='bett'&&!bedOn)return false;var c=k;if(k==='ctn'||k==='ctb'){if((k==='ctb')!==bedOn)return false;c='couchtisch';}var hc=(hoverCat==='ctn'||hoverCat==='ctb')?'couchtisch':hoverCat;if(pinned[c])return true;if(hc){if(hc===c)return true;var L=LINK[hc];if(L&&L.indexOf(c)>=0)return true;}return false;}
+
+function isVis(k){if(k==='bett'&&!bedOn)return false;if(k==='teppich'&&!rugOn)return false;var c=k;if(k==='ctn'||k==='ctb'){if((k==='ctb')!==bedOn)return false;c='couchtisch';}var hc=(hoverCat==='ctn'||hoverCat==='ctb')?'couchtisch':hoverCat;if(pinned[c])return true;if(hc){if(hc===c)return true;var L=LINK[hc];if(L&&L.indexOf(c)>=0)return true;}return false;}
 var ray=new THREE.Raycaster(),mv=new THREE.Vector2(),downXY=null;
 function pick(e){var r=canvas.getBoundingClientRect();mv.set(((e.clientX-r.left)/r.width)*2-1,-((e.clientY-r.top)/r.height)*2+1);ray.setFromCamera(mv,cam);
   var hits=ray.intersectObjects(room.children,true);
@@ -539,7 +550,7 @@ canvas.addEventListener('pointerup',function(e){
   downXY=null;if(e.pointerType==='touch')hoverCat=null;});
 matchMedia('(prefers-color-scheme: dark)').addEventListener('change',function(){edgeMats.forEach(function(m){m.color.setHex(edgeColor());});});
 function loop(){
-  Object.keys(dimG).forEach(function(k){dimG[k].visible=isVis(k);});
+  Object.keys(dimG).forEach(function(k){dimG[k].visible=isVis(k);dimG[k].position.y=rugOn?0.02:0;});
   place();renderer.render(scene,cam);
   var w=stage.clientWidth,h=stage.clientHeight;
   labels.forEach(function(l){

diff --git a/einkaufsliste.html b/einkaufsliste.html
@@ -49,6 +49,9 @@ h1{font-size:24px;margin:20px 0 4px;color:var(--head)}
 <div class="card"><div class="info"><div class="name">LACK Couchtisch<small>IKEA</small></div><div class="dim">90 × 55 × 45 cm · vor dem Sofa, bei ausgeklapptem Sofa vor dem Bett (20 cm Abstand)</div><div class="tags"><span class="tag">Eicheneffekt weiß lasiert</span><span class="tag">mit Ablage, 19,99 €</span></div></div>
 <a class="btn" href="https://www.ikea.com/de/de/p/lack-couchtisch-eicheneff-wlas-50319029/" target="_blank" rel="noopener">Zum Produkt ↗</a></div>
 
+<div class="card"><div class="info"><div class="name">STOENSE Teppich Kurzflor, mittelgrau<small>IKEA</small></div><div class="dim">200 × 300 cm, Gesamtdicke 18 mm · unter Sofa und Couchtisch, hinten am Kopfteil · 139,00 €</div><div class="tags"><span class="tag">Optional – in den 3D-Ansichten mit „Teppich An / Aus“ ein- und ausblendbar</span></div></div>
+<a class="btn" href="https://www.ikea.com/de/en/p/stoense-rug-low-pile-medium-grey-30426836/" target="_blank" rel="noopener">Zum Produkt ↗</a></div>
+
 <p class="note">Die Links führen zu den Seiten der Anbieter, dort stehen aktuelle Preise und Lieferzeiten. Alle Maße stammen von den Produktseiten bzw. Datenblättern.</p>
 </main>
 </body>
